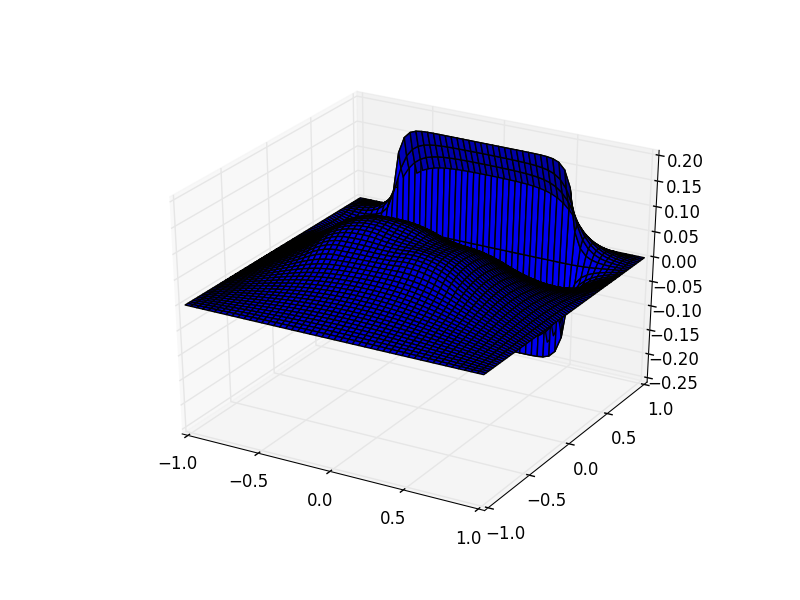
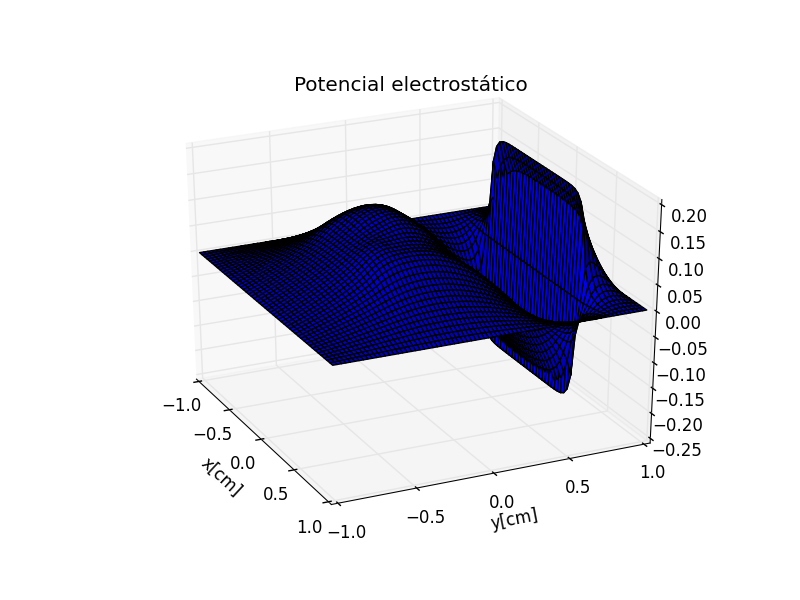
corrige labels y titulos de plots

diff --git a/tarea5.py b/tarea5.py
@@ -143,12 +143,18 @@ x = np.linspace(-1, 1, N_pasos_x)
 y = np.linspace(-1, 1, N_pasos_y)
 X, Y = np.meshgrid(x, y)
 ax.plot_surface(X, Y, V_next_rotada, rstride=1, cstride=1)
+plt.xlabel('x[cm]')
+plt.ylabel('y[cm]')
+plt.title('Potencial electrost'u'á''tico ')
 fig.show()
-plt.savefig('plot_surface.png')
+# plt.savefig('plot_surface.png')
 
-fig2 = plt.figure(2)
-fig2.clf()
-ax2 = fig2.add_subplot(111)
-ax2.imshow(V_next_rotada, origin='bottom', interpolation='nearest')
-fig2.show()
+plt.figure(2)
+plt.clf()
+plt.imshow(V_next_rotada, origin='bottom', interpolation='nearest')
+plt.colorbar()
+plt.xlabel('x[cm]')
+plt.ylabel('y[cm]')
+plt.title('Potencial electrost'u'á''tico ')
 plt.savefig('plot_imshow.png')
+plt.show()
